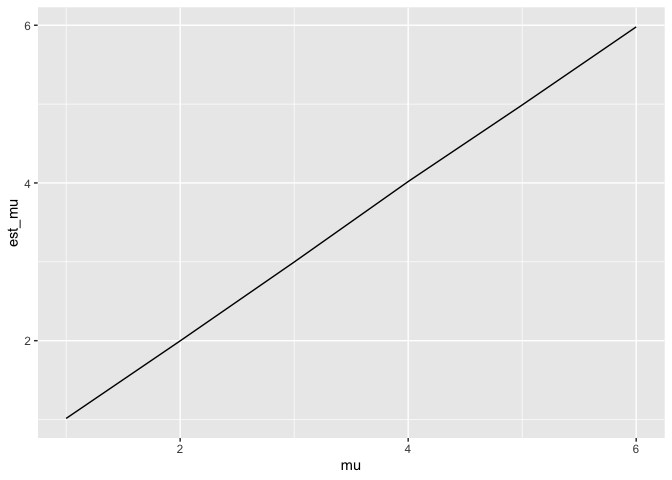
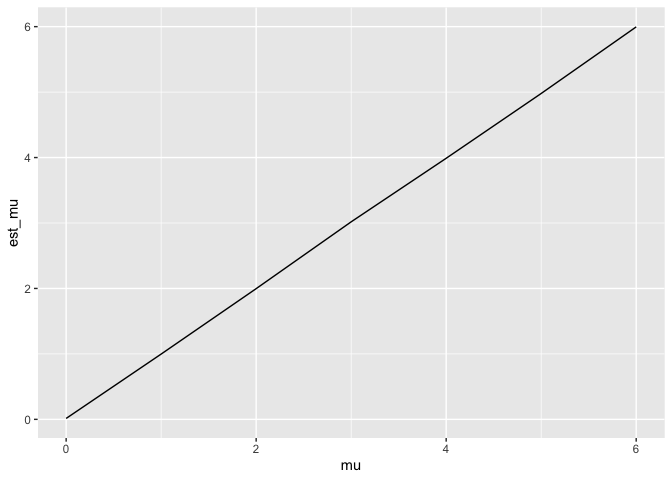
changed the plot to include mu = 0

diff --git a/p8105_hw5_yd2739.md b/p8105_hw5_yd2739.md
@@ -158,12 +158,12 @@ simulation = function(mu) {
   t(results)
 }
 
-five_sim_df = simulation(0)
+zero_sim_df = simulation(0)
 
-sim_output = vector("list", length = 6)
+sim_output = vector("list", length = 7)
 
-for (i in 1:6){
-  sim_output[[i]] = simulation(i)
+for (i in 0:6){
+  sim_output[[i+1]] = simulation(i)
 }
 ```
 
